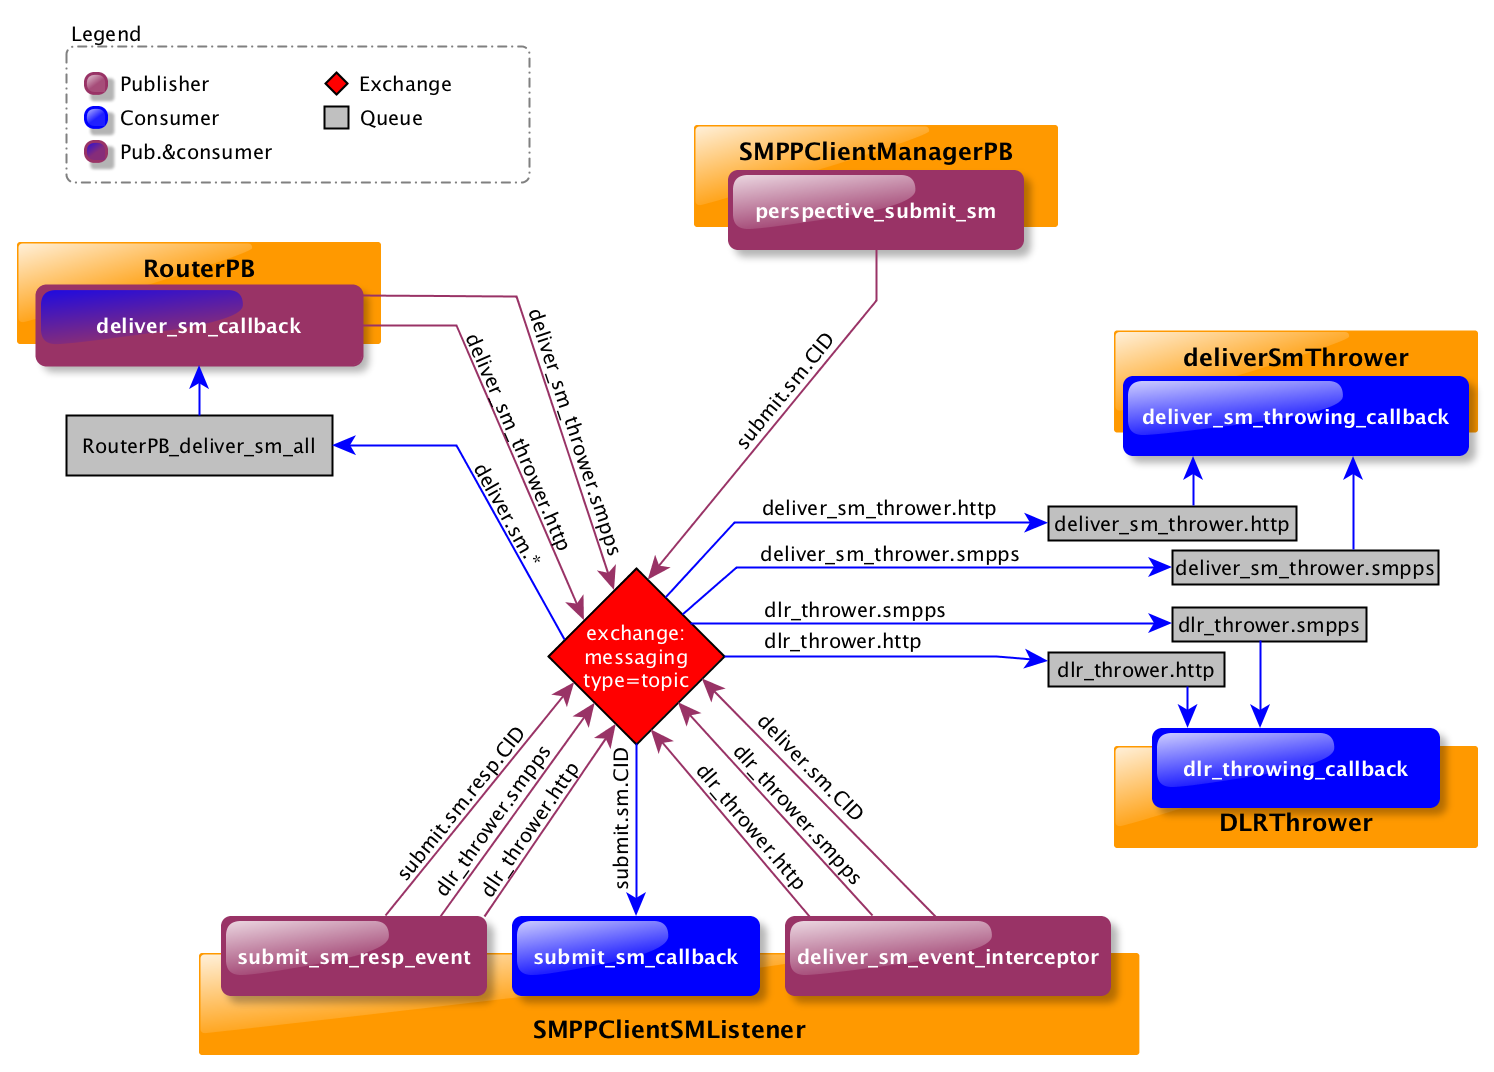
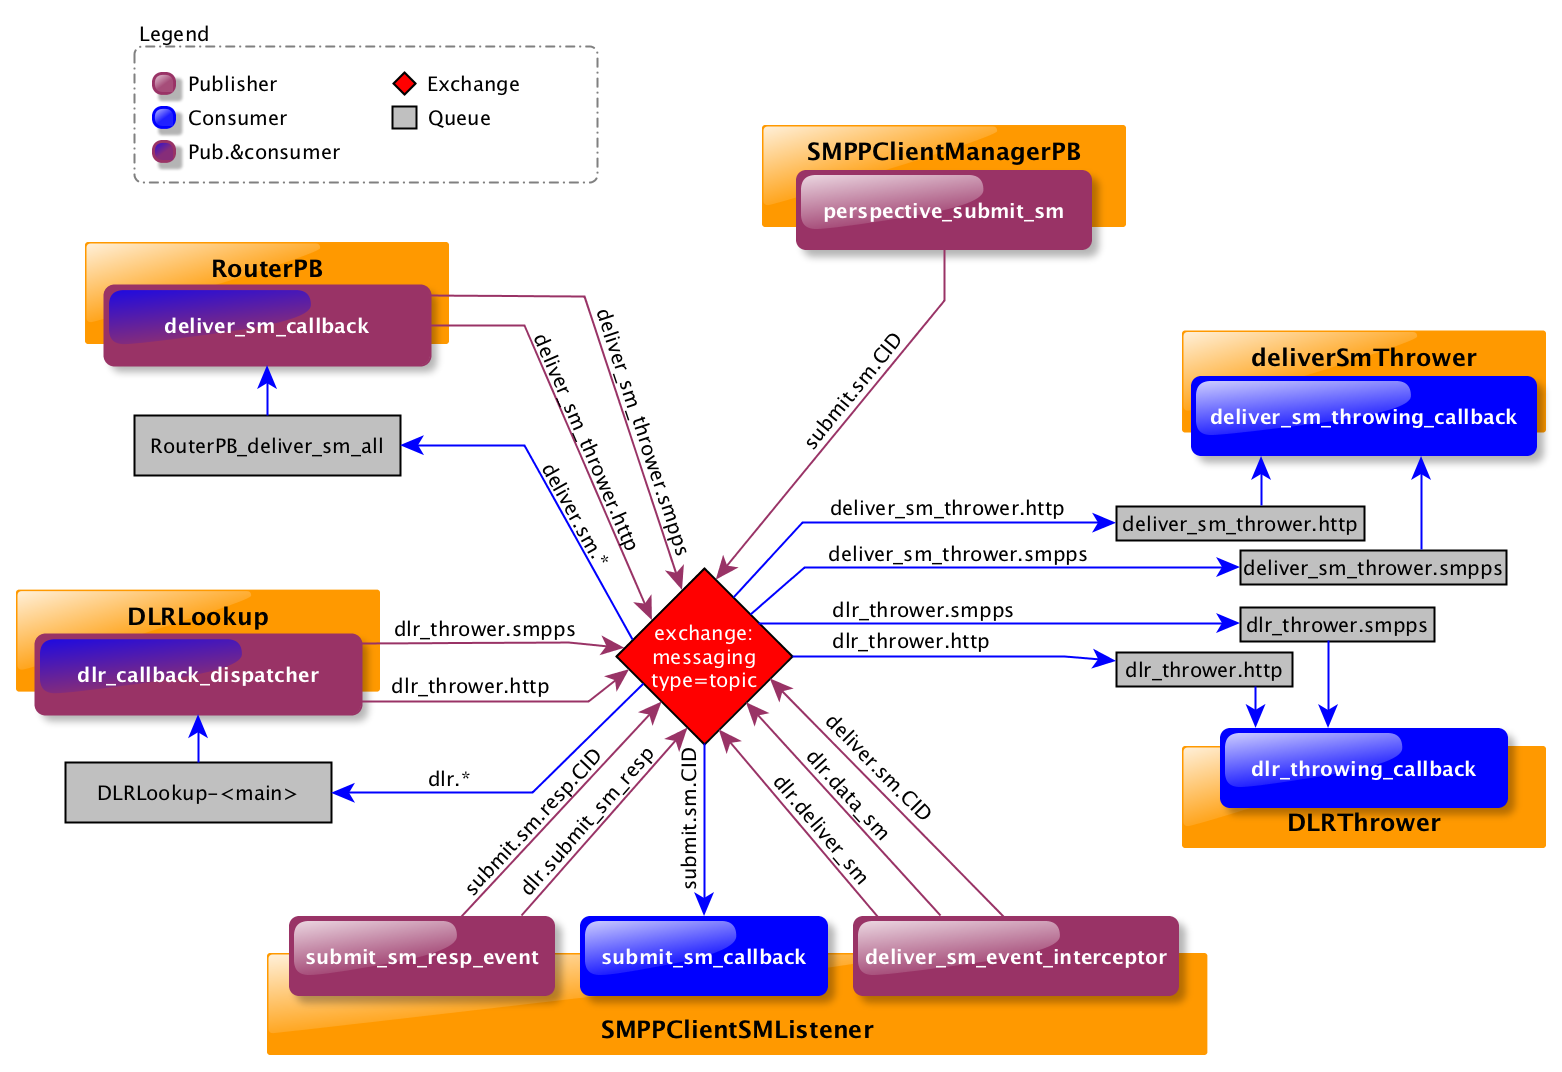
Refs #472
Messaging documentation update.

diff --git a/misc/doc/sources/messaging/index.rst b/misc/doc/sources/messaging/index.rst
@@ -12,7 +12,7 @@ The AMQP broker is providing a strong store & forward queuing mechanism, through
 
    AMQP Messaging flows
 
-Five main actors are messaging through the "*messaging*" topic, their business logic are explained in the below paragraphs.
+    Six main actors are messaging through the "*messaging*" topic, their business logic are explained in the below paragraphs.
 
 SMPPClientManagerPB
 *******************
@@ -27,6 +27,13 @@ an AMQP Content message and publish it to a queue named **submit.sm.CID** where 
 
 Every SMPP Connector have a consumer waiting for these messages, once published as explained above, it will be consumed by
 the destination connector's **submit_sm_callback()** method (c.f. :ref:`SMPPClientSMListener`).
+
+.. _DLRLookup:
+
+DLRLookup
+*********
+
+This is a consumer on the **dlr.\*** AMQP route, added in *v0.9*, it's main role is DLR map fetching from Redis database and publishing the dlr to the right thrower (http or smpp).
 
 .. _RouterPB:
 
